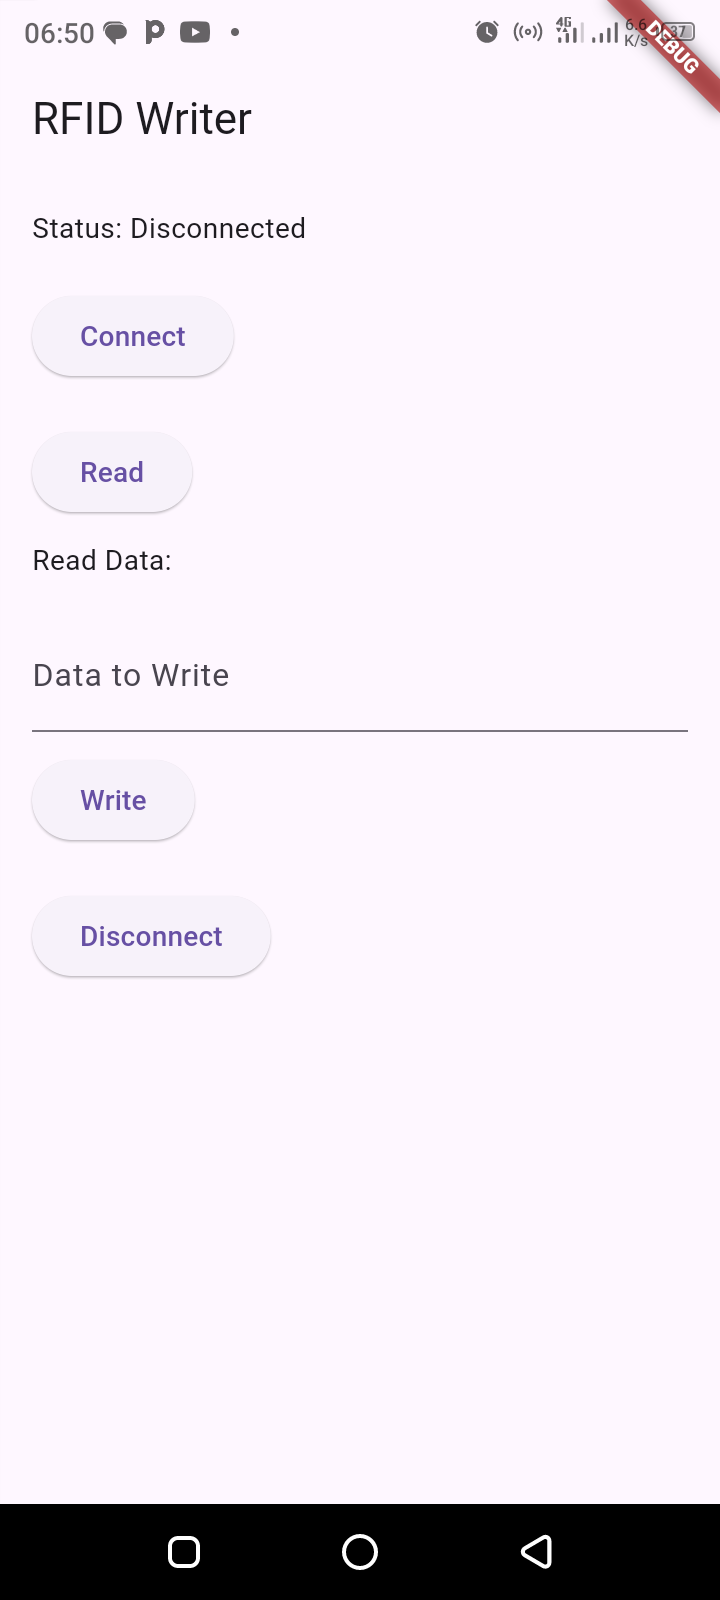
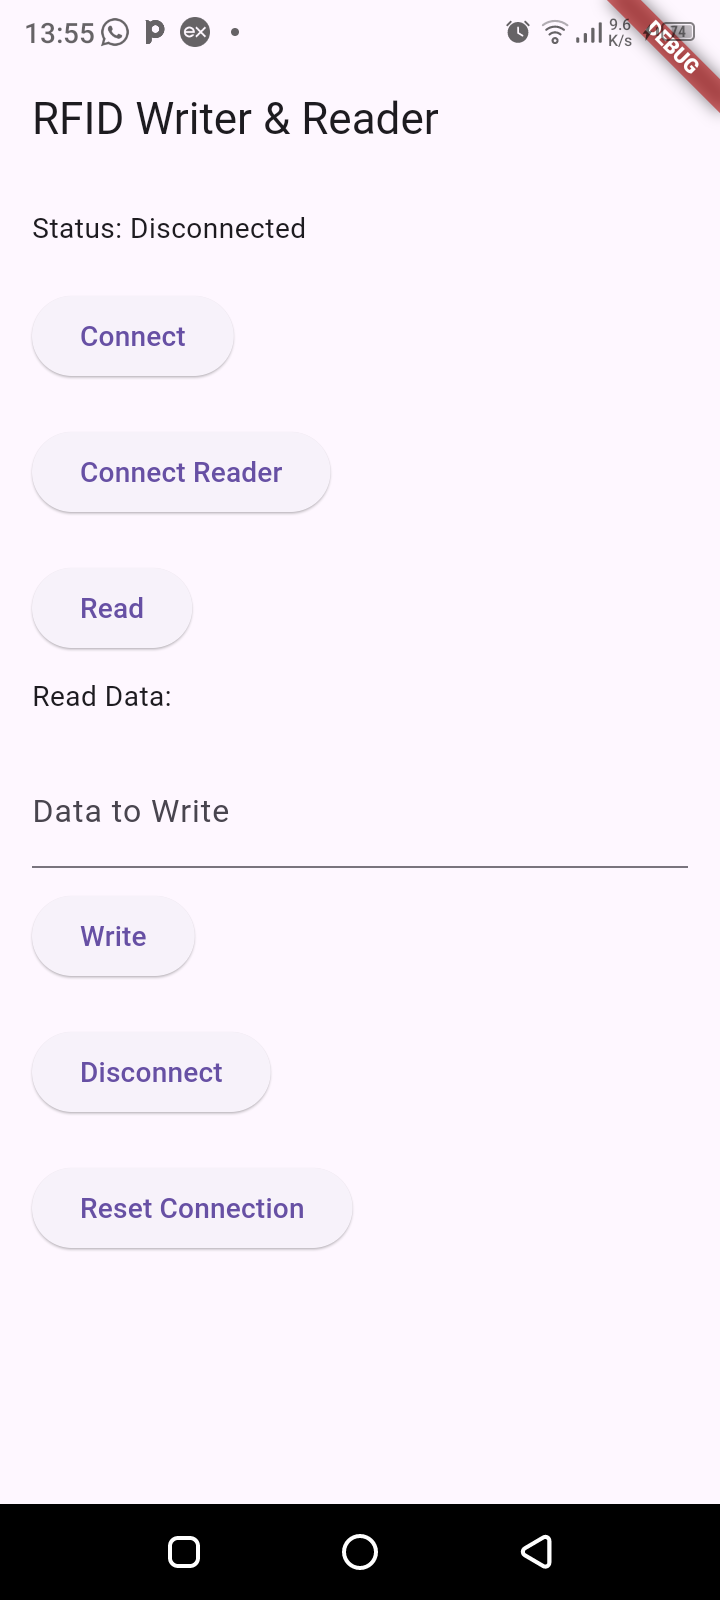
changed the screenshot

diff --git a/lib/src/features/rfid_main.dart b/lib/src/features/rfid_main.dart
@@ -22,7 +22,7 @@ class _RFIDMainScreenState extends State<RFIDMainScreen> {
   Widget build(BuildContext context) {
     return MaterialApp(
       home: Scaffold(
-        appBar: AppBar(title: Text('RFID Writer')),
+        appBar: AppBar(title: Text('RFID Writer & Reader')),
         body: Padding(
           padding: EdgeInsets.all(16.0),
           child: Column(
